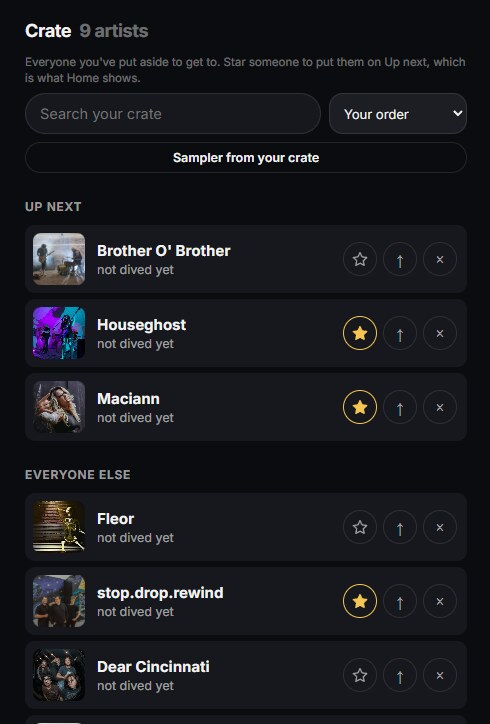
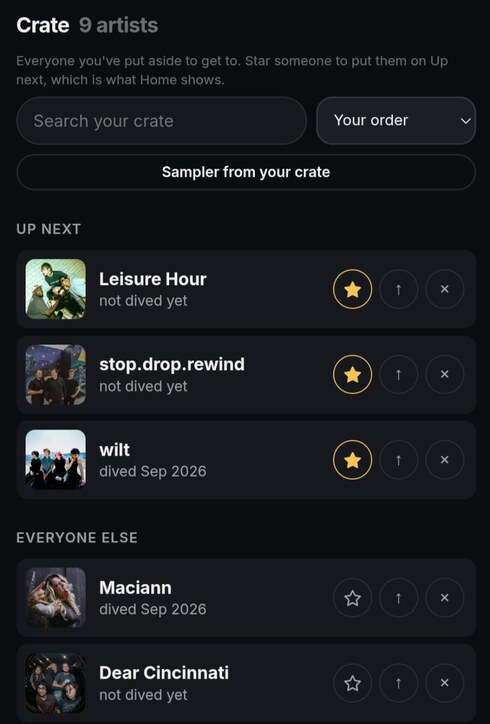
2.9.98: replace landing Crate capture
Replace the landing page Crate screenshot with Joseph's updated nine-artist capture showing the current search, ordering, sampler, Up next, and remaining-list UI. Preserve the complete composition while resizing and optimizing it for the existing 490 by 724 screenshot slot.

Add an approved-asset regression hash and update the build documentation.

diff --git a/docs/js/app.js b/docs/js/app.js
@@ -19,14 +19,14 @@ import { bestStore } from "./storage.js";
 import * as history from "./history.js";
 // Version the demo module independently. Mobile browsers were reloading
 // app.js while continuing to execute an older cached demo.js.
-import * as demo from "./demo.js?v=2.9.97";
+import * as demo from "./demo.js?v=2.9.98";
 import * as lastfm from "./lastfm.js";
 import * as cover from "./cover.js";
 
 // Build marker. Twice now, diagnosing a problem has meant reasoning
 // about which version was actually loaded from indirect evidence — slow
 // and easy to get wrong. Showing it removes the guesswork.
-export const BUILD = "2.9.97";
+export const BUILD = "2.9.98";
 
 const client = new SpotifyClient(auth.getToken);
 // Incremental liked-songs cache: read the whole library once, then only

diff --git a/CLAUDE.md b/CLAUDE.md
@@ -3,7 +3,7 @@
 Written for a future session with no memory of this one. Read this
 before touching anything.
 
-**Last updated at build 2.9.97.** If the build in `js/app.js` is well
+**Last updated at build 2.9.98.** If the build in `js/app.js` is well
 ahead of that, treat this file with suspicion and verify against the
 code — then bring it up to date.
 
@@ -168,7 +168,7 @@ confirms them.
 ./tests/run.sh
 ```
 
-1,628 assertions, 60 suites at 2.9.97, plus a syntax check and a boot
+1,629 assertions, 60 suites at 2.9.98, plus a syntax check and a boot
 check. It takes seconds.
 
 **Gate the push on the suite's own result.** `run.sh ... | tail -2 &&
@@ -611,7 +611,7 @@ Modernised in 2.8–2.9 against Spotify and stats.fm as references.
 
 ## Where things stand
 
-Build **2.9.97**, all 2.9.x. **3.0 is the final release, not a next
+Build **2.9.98**, all 2.9.x. **3.0 is the final release, not a next
 step**, and its number is Joseph's to take. The live picture, including
 what to pick up next, is the "Stopping point" section at the top of
 `ROADMAP.md`.

diff --git a/ROADMAP.md b/ROADMAP.md
@@ -289,7 +289,7 @@ the pacing work. Neither has been looked at properly.
 
 ---
 
-## Stopping point, 22 Sept (build 2.9.97)
+## Stopping point, 22 Sept (build 2.9.98)
 
 Picking up next session:
 
@@ -299,11 +299,13 @@ Picking up next session:
   seen), 2.9.56 to 2.9.58 onboarding, the Last.fm gating. TESTING.md
   sections 32 to 34.
 
-## Shipped since — build 2.9.97
+## Shipped since — build 2.9.98
 
 Delivered while working through Joseph's review notes, ahead of the
 sessions below:
 
+- The landing page's Crate example now uses Joseph's updated capture of
+  the current search, sampler, ordering and Up next interface (2.9.98)
 - The landing page's Dip/Dive/Multi-Dip example now uses the new VIAL
   chooser capture instead of Maciann, cut cleanly from chroma green (2.9.97)
 - Demo Settings can search Spotify for any artist and open the real

diff --git a/TESTING.md b/TESTING.md
@@ -94,6 +94,13 @@
 - [ ] The taller mobile chooser stays fully visible and does not collide
       with the section copy at desktop or phone widths
 
+## 46. Landing Crate replacement (2.9.98)
+
+- [ ] The Crate card shows the updated nine-artist capture
+- [ ] Search, ordering, Sampler from your crate and Up next are readable
+- [ ] The complete screenshot remains visible without stretching or an
+      unintended crop at desktop and phone widths
+
 ## 43. Demo/live isolation (2.9.74)
 
 - [ ] Open `/app/?demo=home`, then manually load plain `/app/` in the

diff --git a/CHANGELOG.md b/CHANGELOG.md
@@ -4,6 +4,12 @@
 > stops at the Flask era. The 2.x record lives in the git log and
 > `ROADMAP.md`'s "Shipped since".
 
+## 2.9.98
+- Replaced the landing page's Crate screenshot with Joseph's updated
+  capture, showing the current search, ordering, sampler and Up next UI.
+- Kept the complete composition while resizing and compressing it to the
+  landing page's existing 490-by-724 screenshot slot.
+
 ## 2.9.97
 - Replaced the Maciann Dip/Dive chooser on the landing page with
   Joseph's new VIAL capture.
